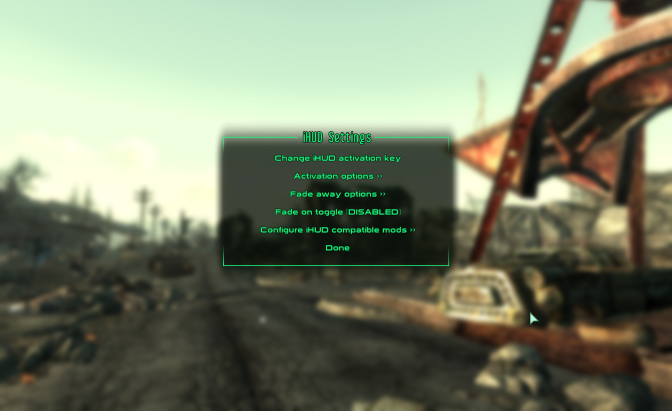
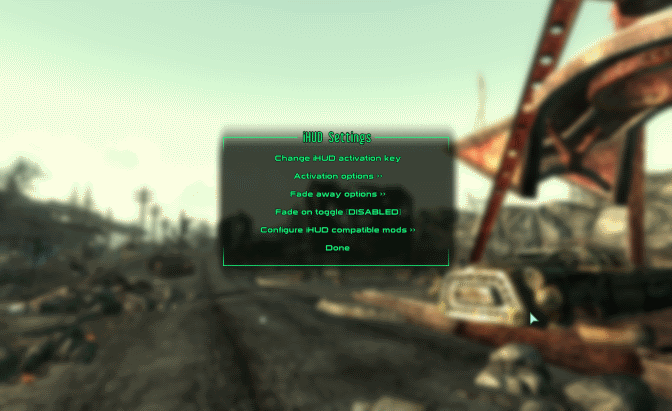
The chapter 4.1 (user interface) has been easier. Most of the pictures already had red boxes pointing out selected options/buttons. I have downscaled the screenshots anyway.
The biggest changes have been made in 4.1.5 (world map retexturing), because I finally managed to get rid of the green tint of the original map. The full-sized map of the mod is shown in all its colorful glory.

I have not used [_Color Hi-Detailed map and icons_](http://www.nexusmods.com/fallout3/mods/1789/?) because I thought the maps in that mod were high-resolution, but nope!

Changed region(s): [[0.0, 0.2044, 0.3125, 0.3796]]

diff --git a/Modding never changes.md b/Modding never changes.md
@@ -573,8 +573,8 @@ Next, we are going to _shrink_ the user interface using [_DarNified UI F3_](http
 
 This will be a bit tricky, because there are no NMM packages right out-of-the-box. Instead, we have the FOMOD ([_Fallout Mod Manager_](http://www.nexusmods.com/fallout3/mods/640/?)) packages... But they are compatible with NMM, so bear with me.
 
-1. Download [DUIF3 Alpha<sup>11</sup>](http://ui.darnified.net/wip/F3/dui_f3a11.zip).
-2. Download [DUIF3 Alpha<sup>11</sup> Hotfix](http://ui.darnified.net/wip/F3/dui_f3a11_HF.7z).
+1. Download [DUIF3 Alpha<sup>11</sup>](http://ui.darnified.net/wip/F3/dui_f3a11.zip). The file is called `dui_f3a11.zip`.
+2. Download [DUIF3 Alpha<sup>11</sup> Hotfix](http://ui.darnified.net/wip/F3/dui_f3a11_HF.7z). The file is called `dui_f3a11_HF.7z`.
 3. Start NMM, go to the _Mods_ tab and click on the green plus sign to add mod from file.
 ![NMM Adding mod from file](Images/NMM%20Adding%20mod%20from%20file.png)
 4. In the file selector that appears, navigate to the location of the downloaded DUIF3 files and open `dui_f3a11.zip`, corresponding to the main file.
@@ -590,7 +590,7 @@ This will be a bit tricky, because there are no NMM packages right out-of-the-bo
 ![NMM DUIF3 font config confirmation](Images/NMM%20DUIF3%20font%20config%20confirmation.png)
 10. Activate the hotfix and answer _Yes to all_ when asked to overwrite previous files (from the main mod file, in fact).
 ![NMM DUIF3 hotfix overwriting](Images/NMM%20DUIF3%20hotfix%20overwriting.png)
-11. Check that DUIF3 is installed in the _Plugins_ tab.
+11. DUIF3 is finally installed.
 ![NMM DUIF3 installed](Images/NMM%20DUIF3%20installed.png)
 12. Just in case, use LOOT to sort your load order session. It is not really necessary, as DUIF3 sits on the bottom, but you need to flex your muscles now and then.
 ![LOOT DUIF3](Images/LOOT%20DUIF3.png)
@@ -603,8 +603,9 @@ This will be a bit tricky, because there are no NMM packages right out-of-the-bo
 	* `Zeta.esm`
 	* `Unofficial Fallout 3 Patch.esm`
 	* `CASM.esp`
+	* `BetterGamePerformance.esp`
 	* **`DarNifiedUIF3.esp`**
-14. Remember when we said "no" to use the fonts provided by DUIF3? There is an error in NMM, possibly related to modifying files in certain protected Windows folders, which crashes the program. So, go back to the [DUIF3 page](http://forums.bethsoft.com/topic/1121454-wipzbeta-darnified-ui-f3/) and copy the text block starting with `[Fonts]`. I have even made half the job for you.
+14. Remember when we said "no" to use the fonts provided by DUIF3? There is an error in NMM, possibly related to modifying files in certain protected Windows folders, which crashes the program. So, go back to the [DUIF3 page](http://forums.bethsoft.com/topic/1121454-wipzbeta-darnified-ui-f3/) and copy the text block starting with `[Fonts]`. I have even done half the job for you.
 ```INI
 [Fonts]
 ;sFontFile_1=Textures\Fonts\Glow_Monofonto_Large.fnt
@@ -625,7 +626,7 @@ sFontFile_7=Textures\Fonts\DarN_Libel_Suit_Otl_24.fnt
 ;sFontFile_7=Textures\Fonts\DarN_Klill_Outline_20.fnt
 sFontFile_8=Textures\Fonts\Glow_Futura_Caps_Large.fnt
 ```
-15. Open the file `FALLOUT.INI` in `[%USERPROFILE%\Documents\My Games\Fallout3]` and paste the text over the `[Fonts]` section.
+15. Open the file `FALLOUT.INI` in `[%USERPROFILE%\Documents\My Games\Fallout3]` and paste the text over the contents of the `[Fonts]` section.
 16. Launch the game and check the Vault-boy head in the lower-left corner of the screen. If you hover with the mouse over the head, you will see something like that (version numbers may vary):
 ```
 Fallout 3 1.7.0.3
@@ -634,11 +635,13 @@ Powered by FOSE 1.2 b2
 ```
 17. As a collateral effect, _LIVE_ button in the main screen is enabled again, but fear not! This is nothing but DUIF3 taking full control of your interface settings in a somewhat standard way. GFWL is still disabled.
 ![Fallout 3 DUIF3 installed](Images/Fallout%203%20DUIF3%20installed.png)
-18. Start a new game or continue a previous one, and check the smaller HUD elements, including new information about date and time in the upper-right corner of the screen.
+18. However, I don't like that option to be visible, so open the file `DUIF3Settings.xml` in `[%STEAM_HOME%\steamapps\common\Fallout 3 goty\Data\Menus\prefabs]` with your favourite text editor. Change the option `<_sm_hideLIVE />` to 1. Save and exit. Launch the game to check the absent LIVE option.
+![Fallout 3 DUIF3 absent LIVE option](Images/Fallout%203%20DUIF3%20absent%20LIVE%20option.png)
+19. Start a new game or continue a previous one, and check the smaller HUD elements, including new information about date and time in the upper-right corner of the screen.
 ![Fallout 3 DUIF3 small HUD](Images/Fallout%203%20DUIF3%20small%20HUD.png)
-19. If you press <kbd>ESC</kbd> in game, you will see a new option at the right to configure DUIF3.
+20. If you press <kbd>ESC</kbd> in game, you will see a new option at the right to configure DUIF3.
 ![Fallout 3 DUIF3 ingame option](Images/Fallout%203%20DUIF3%20ingame%20option.png)
-20. There are a lot of settings for you to configure, adjusting the HUD to your liking.
+21. There are a lot of settings for you to configure, adjusting the HUD to your liking.
 ![Fallout 3 DUIF3 settings](Images/Fallout%203%20DUIF3%20settings.png)
 
 
@@ -659,6 +662,7 @@ For those of you who don't like the default layout of the Heads Up Display (HUD)
 	* `Unofficial Fallout 3 Patch.esm`
 	* **`aHUD.esm`**
 	* `CASM.esp`
+	* `BetterGamePerformance.esp`
 	* `DarNifiedUIF3.esp`
 5. Launch the game and press <kbd>F6</kbd> in-game to show the aHUD settings menu.
 ![Fallout 3 aHUD settings](Images/Fallout%203%20aHUD%20settings.png)
@@ -677,7 +681,7 @@ Take into account that if you plan to keep on installing mods using this guide, 
 
 In addition to have the HUD elements placed where you like, you can improve the immersion by hiding these elements when you don't need them. I like to have them hidden when I am wandering around and have them shown when I am in combat. We have [_Immersive HUD_](http://www.nexusmods.com/fallout3/mods/15790/?) or iHUD for this.
 
-1. Download the mod with NMM.
+1. Download the mod with NMM. We are saving the file _Immersive HUD - Darnified FWE Patch_ for later, when we install _Fallout 3 Wanderer's Edition_.
 2. Activate it, the usual way.
 3. Answer _Yes to all_ when asked to overwrite files.
 4. Use LOOT to sort your load order, which should be:
@@ -691,12 +695,19 @@ In addition to have the HUD elements placed where you like, you can improve the 
 	* `aHUD.esm`
 	* **`iHUD.esm`**
 	* `CASM.esp`
+	* `BetterGamePerformance.esp`
 	* `DarNifiedUIF3.esp`
 5. Launch the game and notice the absence of HUD elements on screen.
 ![Fallout 3 iHUD default](Images/Fallout%203%20iHUD%20default.png)
-6. keep key <kbd>I</kbd> pressed a few moments. The iHUD settings menu will appear.
+6. Keep the <kbd>I</kbd> key pressed a few moments. The iHUD settings menu will appear.
 ![Fallout 3 iHUD settings](Images/Fallout%203%20iHUD%20settings.png)
 7. There are a lot of customization options in iHUD. Tweak around until you feel comfortable with the results ([Gopher's video](https://youtu.be/aqCzCXEydwU?t=18m20s) should help, around 18:20).
+
+A final step: we are going to create a backup copy of the folder with the menu definitions (`[%STEAM_HOME%\steamapps\common\Fallout 3 goty\Data\Menus]`).
+
+Why this backup? Well, there are a lot of mods which change the user interface, and we are going to use them. In these matters, installation order is more important than load order, because each mod _overwrites_ several files to fulfill its own goals, thus losing the modifications created by previous mods.
+
+The way we are installing mods in this guide is more functional than technical, so the installation order we are following is less than ideal. However, we are going to manually keep track of the changes made by each mod to stitch all them together.
 
 
 #### <a id="retexturingPipBoy"></a>4.1.4. Cleaning up your faithful companion
@@ -718,7 +729,7 @@ After:
 
 #### <a id="betterMap"></a>4.1.5. You don't want to ask for directions
 
-Let's face it: the vanilla map in _Fallout 3_ seems to have been produced from Dora the explorer's backpack. And you don't want to start asking directions in D.C., because super-mutants are not known for their kindness of heart with strangers.
+Let's face it: the vanilla map in _Fallout 3_ seems to have been produced from Dora the Explorer's backpack. And you don't want to start asking directions in D.C., because super-mutants are not known for their kindness of heart with strangers.
 
 We are going to use [_Better High Detail Map and Icons_](http://www.nexusmods.com/fallout3/mods/16898/?) to have decent maps.
 
@@ -728,6 +739,7 @@ We are going to use [_Better High Detail Map and Icons_](http://www.nexusmods.co
 3. Next window contains the customization options for the mod. I checked "Custom icons", "Clean Pipboy Screen" and green markers. Click on _Finish_.
 ![NMM Better High Detail Map and Icons customization options](Images/NMM%20Better%20High%20Detail%20Map%20and%20Icons%20customization%20options.png)
 4. Answer _Yes to all_ when asked to overwrite files.
+5. We need to change a value in the file `FalloutPrefs.ini`, located in the folder `[%USERPROFILE%\Documents\My Games\Fallout3]`, in order to get rid of the green tint that pervades the whole screen. Open that file and change the value in the item `uPipboyColor` (near the bottom) from 452952319 to 2930678016.
 5. Launch the game, fire up your Pip-Boy and compare.
 
 Before:
@@ -775,7 +787,7 @@ If you feel uncomfortable with this, open the file `map_menu.xml` in `[%STEAM_HO
 </hotrect>
 ```
 
-Just lower the value between 5 and 20 pixels, using the same value in the three elements. Notice the increment in the clickable zone using a value of 640 pixels at expense of map height.
+Just lower the value between 5 and 30 pixels, using the same value in the three elements. Notice the increment in the clickable zone using a value of 630 pixels at expense of map height.
 
 ![Fallout 3 data option hot zone expanded](Images/Fallout%203%20data%20option%20hot%20zone%20expanded.png)
 
@@ -786,7 +798,7 @@ There's one final thing left to have a perfect-although-cranky GPS in our hands 
 
 ![Fallout 3 white dots](Images/Fallout%203%20white%20dots.png)
 
-Well, in mathematics the straight line may be the shortest path between two points, but in real life, and specially in the Capital Wasteland, it usually is the shortest path between you and a Darwin-cleansing-style death. So, let's remove the goddamn dots with [_No more dots_](http://www.nexusmods.com/fallout3/mods/15918/?).
+Well, in mathematics the straight line may be the shortest path between two points, but in real life, and specially in the Capital Wasteland, it usually is the shortest path between you and a suitable [Darwin Awards](http://www.darwinawards.com/) death. So, let's remove the goddamn dots with [_No more dots_](http://www.nexusmods.com/fallout3/mods/15918/?).
 
 1. Download the mod with NMM.
 2. Activate it by double-clicking.
@@ -815,6 +827,7 @@ This small mod, [_SmoothLight - Pip-Boy Light Enhancer_](http://www.nexusmods.co
 	* `aHUD.esm`
 	* `iHUD.esm`
 	* `CASM.esp`
+	* `BetterGamePerformance.esp`
 	* `DarNifiedUIF3.esp`
 	* **`HZSmoothLight - FO3.esp`**
 3. Launch the game and activate your Pip-Boy's lamplight long-pressing the <kbd>TAB</kbd> key in a dark area.

diff --git a/README.md b/README.md
@@ -6,6 +6,14 @@ Take a look at the file `Modding never changes.md`. That is the main guide file,
 
 ### Changelog
 
+**(v0.23) [29/08/2016] Chapter 4.1 rewritten and updated.**
+
+The chapter 4.1 (user interface) has been easier. Most of the pictures already had red boxes pointing out selected options/buttons. I have downscaled the screenshots anyway.
+
+The biggest changes have been made in 4.1.5 (world map retexturing), because I finally managed to get rid of the green tint of the original map. The full-sized map of the mod is shown in all its colorful glory.
+
+I have not used [_Color Hi-Detailed map and icons_](http://www.nexusmods.com/fallout3/mods/1789/?) because I thought the maps in that mod were high-resolution, but nope!
+
 **(v0.22) [29/08/2016] Chapter 3 rewritten and updated.**
 
 I have started the next iteration, with new mods. However, I am making the most of it by rescaling the images and correcting errors in the text.
